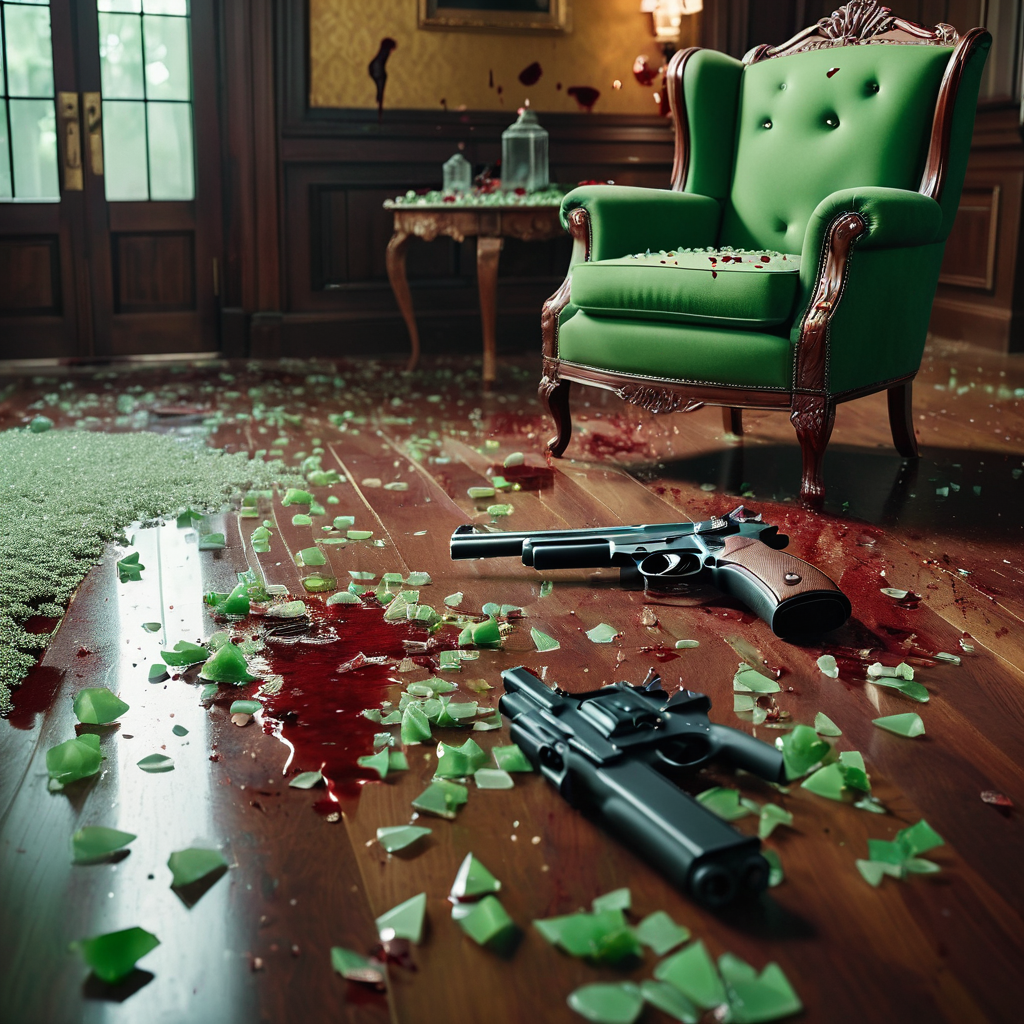
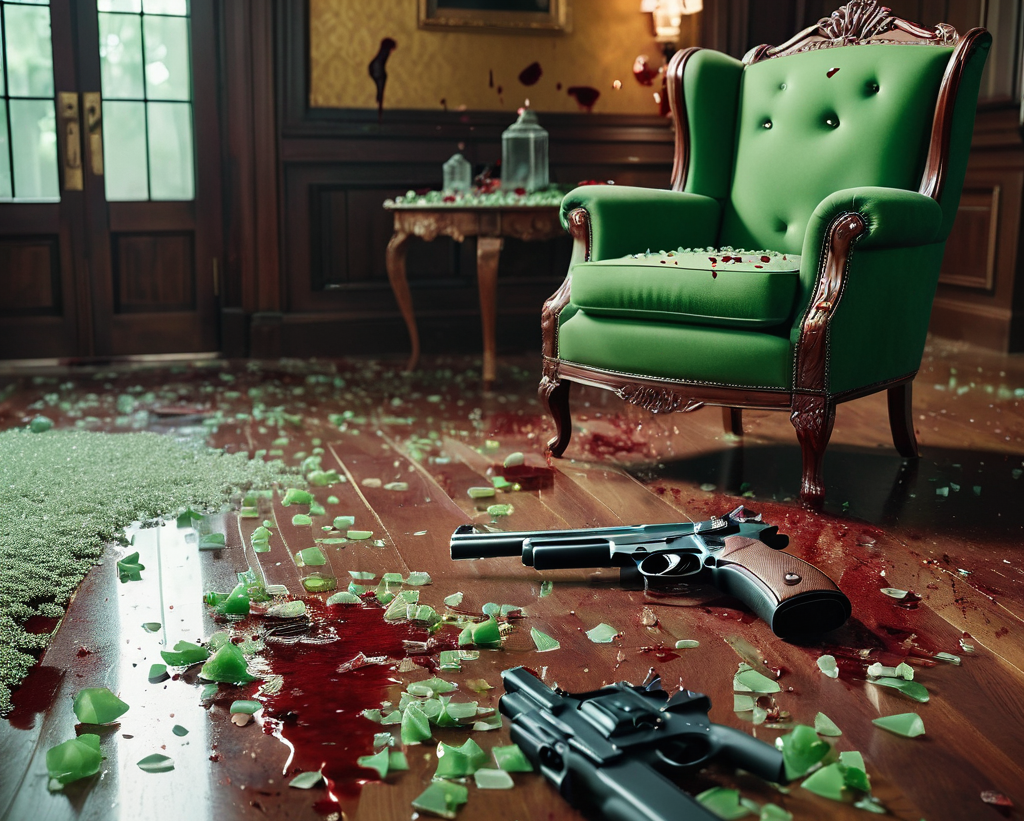
postion

diff --git a/crimeScene.html b/crimeScene.html
@@ -24,14 +24,14 @@
         <title>The Final Act</title>
     </head>
     <body class="color">
-        <nav class="navbar navbar-expand-lg navbar-dark  sticky-top">
+        <nav class="navbar navbar-expand-lg navbar-dark sticky-top">
             <div class="container-fluid">
                 <a class="navbar-brand" href="/index.html">THE FINAL ACT</a>
                 <button class="navbar-toggler" type="button" data-bs-toggle="collapse" data-bs-target="#navbarNav" aria-controls="navbarNav" aria-expanded="false" aria-label="Toggle navigation">
                     <span class="navbar-toggler-icon"></span>
                 </button>
                 <div class="collapse navbar-collapse justify-content-end" id="navbarNav">
-                    <ul class="navbar-nav"> <!-- Added navbar-nav class here -->
+                    <ul class="navbar-nav">
                         <li class="nav-item">
                             <a class="nav-link" href="/about.html">ABOUT</a>
                         </li>
@@ -48,7 +48,15 @@
                 </div>
             </div>
         </nav>
-        
+        <h1 class="bios">THE CRIME SCENE</h1>
+        <hr class="bioLine">
+        <h2 class="guess">Below is the crime scene where Maria De Luca was murdered. Move your cursor along the image, and you might find a clue!</h2>
+        <div class="scene-container">
+            <img class="scene" src="/img/in a really nic 7ccc5e67-cdfc-4609-b302-6de17242b5f2 (1).png">
+            <img class="powder" src="/img/gunpowder.png">
+            <img class="outline" src="/img/bodyoutline.png">
+            <img class="folder" src="/img/manillaFolder.png">
+        </div>
     </body>
     
 </html>

diff --git a/crimeScene.css b/crimeScene.css
@@ -67,13 +67,46 @@
   font-size: 55px;
 }
 
-body {
-  background-image: url(/img/fr.png);
-  background-repeat: no-repeat;
-  background-size: cover;
-  
-
+.scene {
+  min-width: 1800px;
+  margin-left: 50px;
+  position: relative;
 }
+
+.powder {
+  position: absolute;
+  bottom: -325px;
+  left: 50%; 
+  transform: translateX(-50%); 
+  z-index: 2;
+  opacity: 0.9;
+}
+
+.outline {
+  position: absolute;
+  top: calc(50% + 450px);
+  left: 110px; 
+  transform: translateY(-50%);
+  z-index: 2;
+  opacity: 0.9;
+}
+.folder {
+  position: absolute; 
+  bottom: -325px; 
+  right: 60px;  
+  width: 200px;
+  height: 200px;
+  z-index: 2;
+  opacity: 0.9;
+}
+
+.guess{
+  color: rgb(195, 195, 195);
+  font-family: "IBM Plex Mono", monospace;
+  text-align: center;
+  font-size: 25px;
+}
+
 
 .jeanPaul {
   max-width: 20px;
